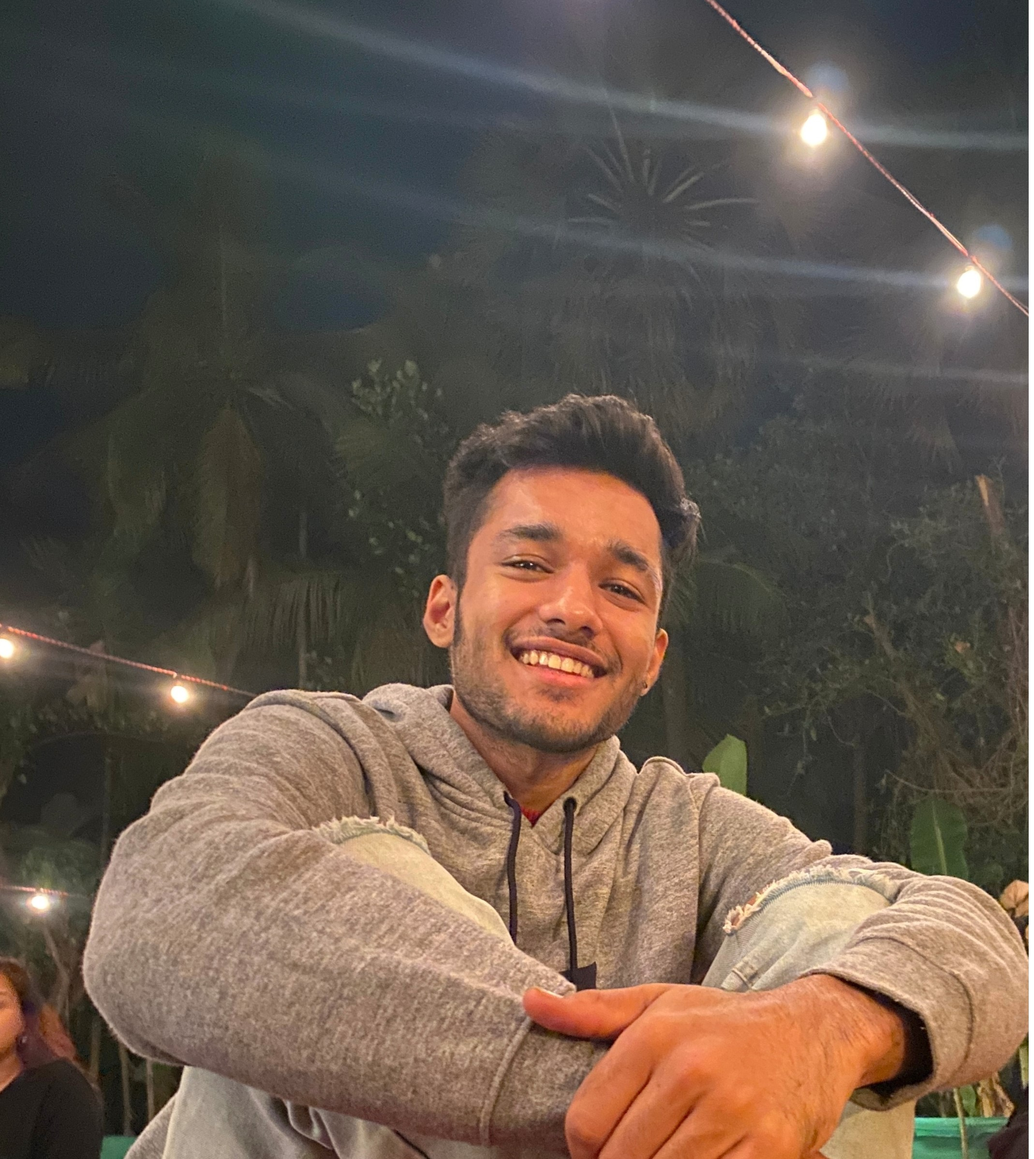
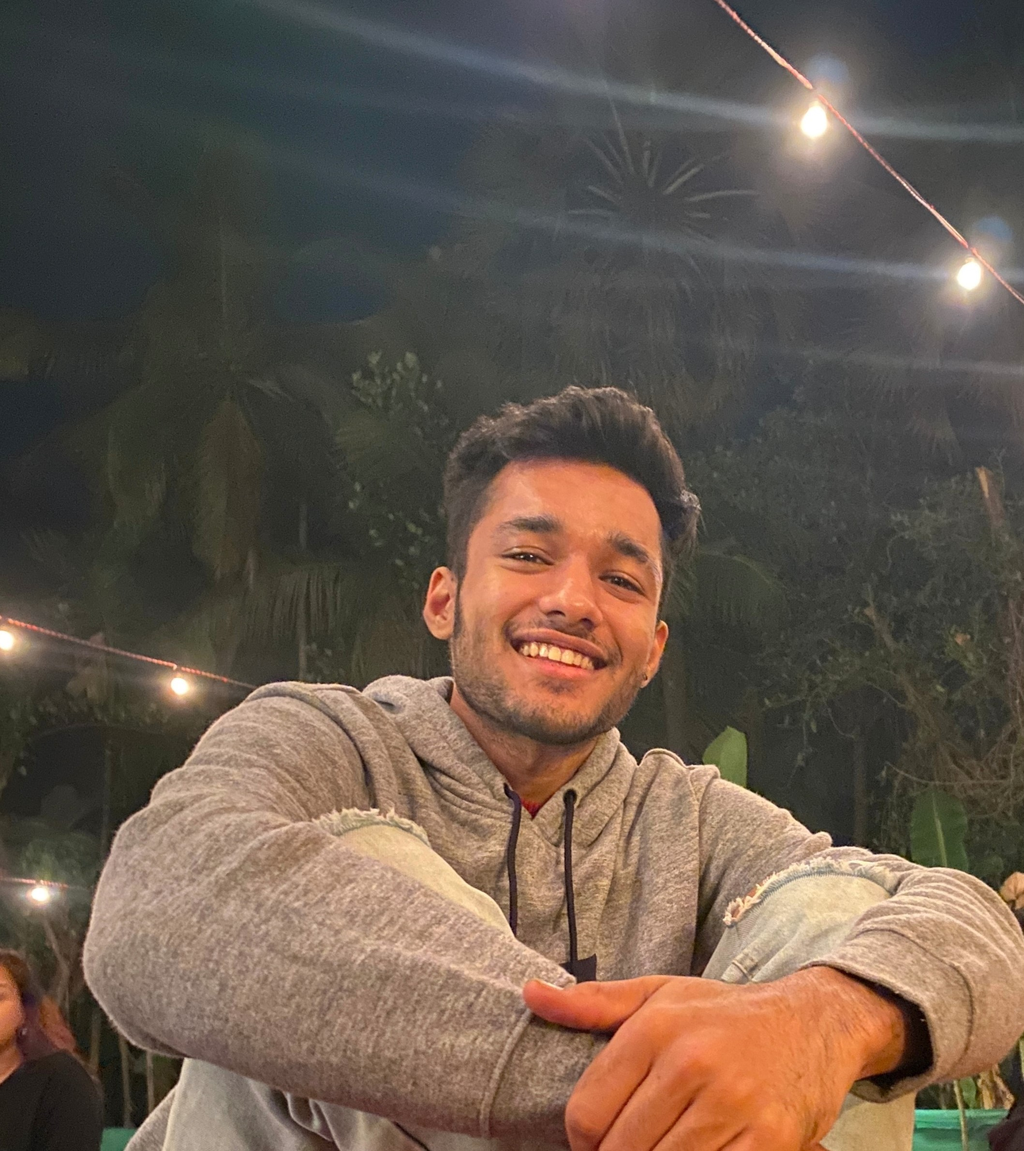
image properly cropped

diff --git a/src/Components/Hero/Hero.js b/src/Components/Hero/Hero.js
@@ -85,9 +85,9 @@ class Hero extends Component {
                                     </a>
                                 </li>
                             </ul>
-                            <a href="#portfolio">
+                            <a href="#experience">
                                 <span>
-                                    Read About Me{' '}
+                                    More about me{' '}
                                     <span className="icon icon-moonarrow-down2"></span>
                                 </span>
                             </a>
